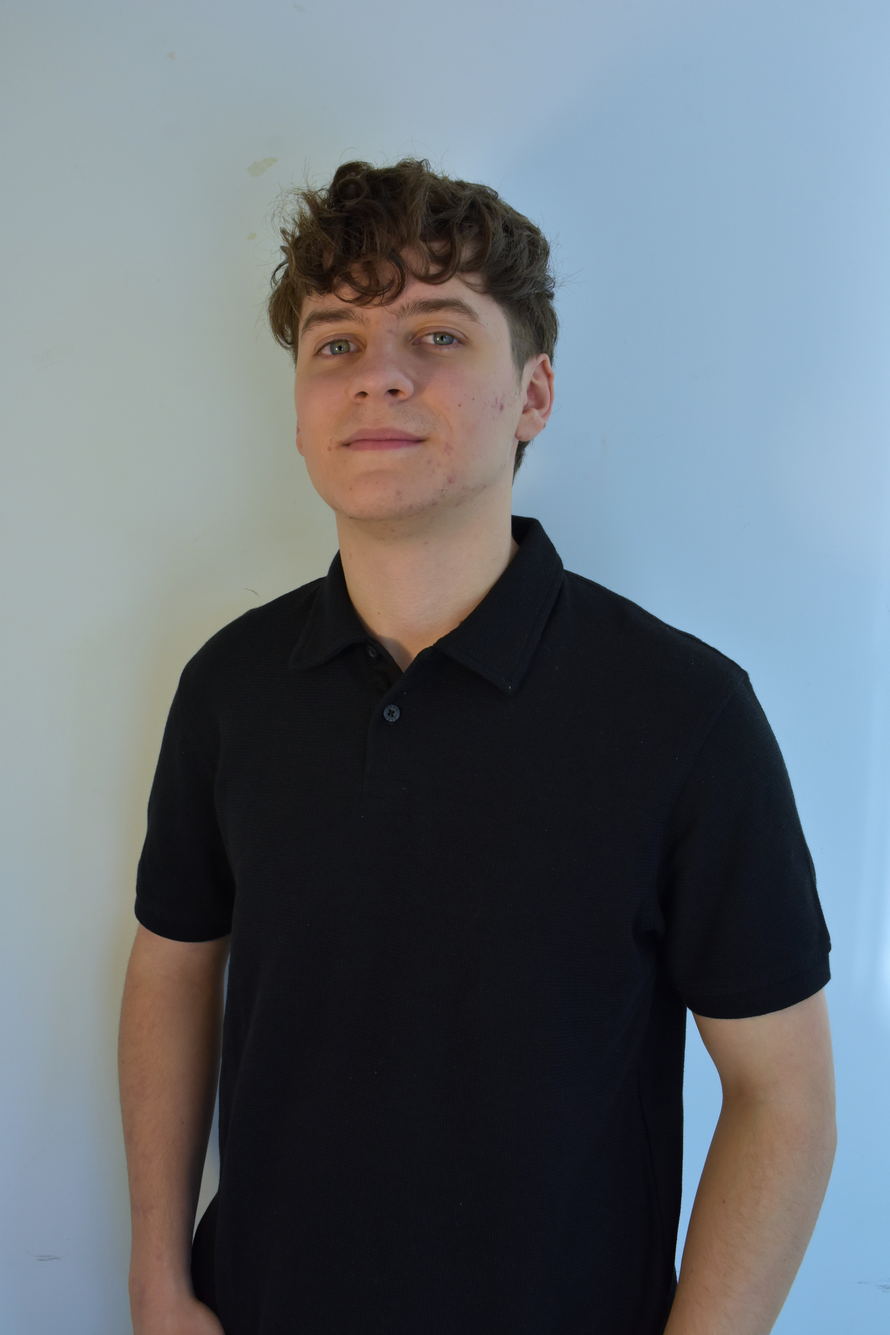
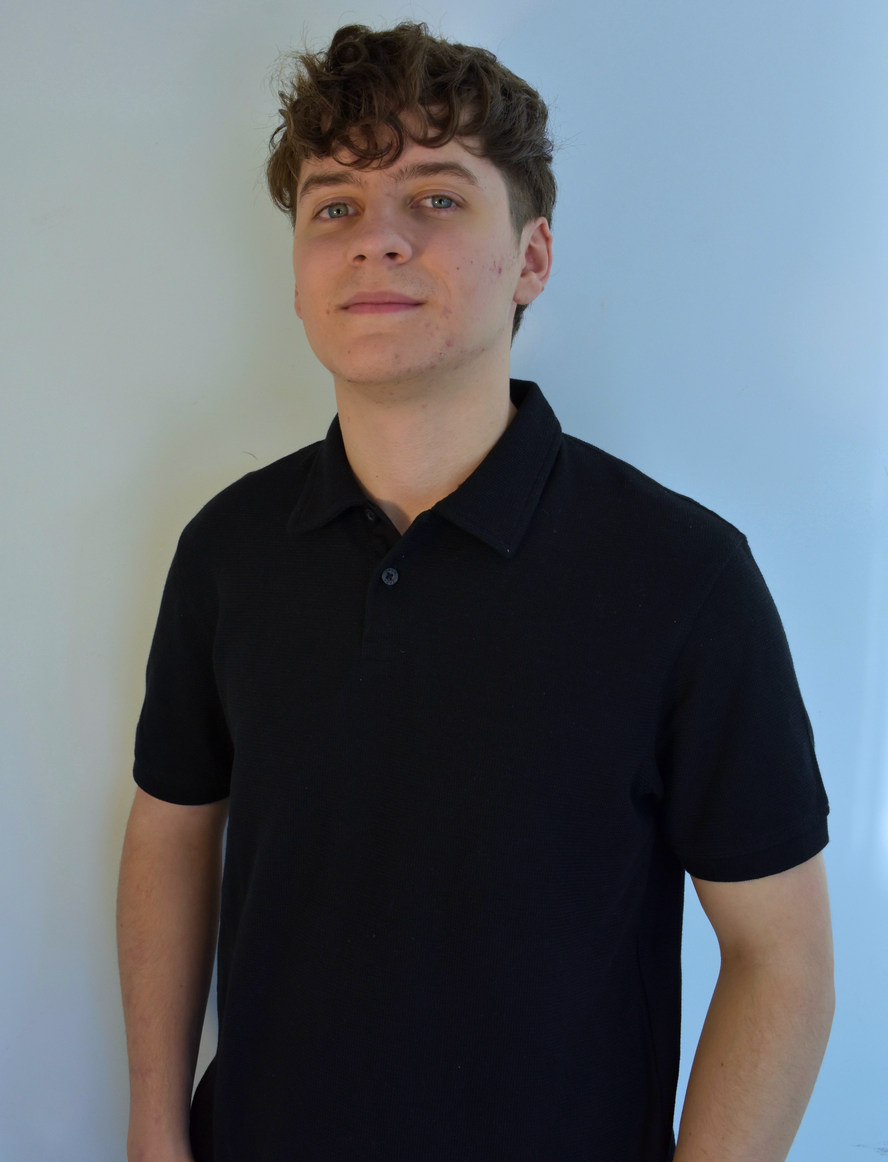
Actualiza Hero + Reel + portfolio

diff --git a/src/app/components/OurTeam.tsx b/src/app/components/OurTeam.tsx
@@ -7,13 +7,13 @@ const teamMembers = [
   {
     name: "Gimena Yurcie",
     role: "Diseñadora Gráfica, Ilustradora",
-    img: "/images/Gimena.png",
+    img: "/images/Gimena 2.jpg",
     description: `Como diseñadora gráfica e ilustradora en “Bastra”, transformo conceptos e ideas en piezas visuales únicas que transmiten identidad y emoción. Desde el diseño de logotipos hasta ilustraciones personalizadas, mi objetivo es que cada proyecto comunique de forma clara y creativa la esencia de tu marca.`,
   },
   {
     name: "Darinka Polich",
     role: "Content Creator, Community Manager",
-    img: "/images/Darinka.JPG",
+    img: "/images/Darinka.jpg",
     description: `En Bastra Studio gestiono redes sociales y creo contenido que conecta. Diseño estrategias, produzco fotos, videos y campañas alineadas con la esencia de la marca. Cada publicación tiene un objetivo claro: atraer, inspirar, vender o fidelizar.`,
   },
   {
@@ -38,7 +38,8 @@ export default function OurTeam() {
           Nuestro Equipo
         </h1>
 
-        <div className="grid grid-cols-1 sm:grid-cols-2 lg:grid-cols-4 gap-10">
+        {/* Grid con separación clara */}
+        <div className="grid grid-cols-1 sm:grid-cols-2 lg:grid-cols-4 gap-24">
           {teamMembers.map((member, index) => (
             <TeamCard key={index} member={member} />
           ))}
@@ -58,7 +59,6 @@ function TeamCard({
     description: string;
   };
 }) {
-  // Estado para mobile/touch: abrir/cerrar con tap
   const [open, setOpen] = useState(false);
 
   const toggle = () => setOpen((v) => !v);
@@ -75,34 +75,36 @@ function TeamCard({
         {member.name}
       </h2>
 
-      {/* Contenedor clickeable en mobile, hover en desktop */}
+      {/* Tarjeta sin borde, separadas entre sí */}
       <div
         role="button"
         tabIndex={0}
         aria-expanded={open}
         onClick={toggle}
         onKeyDown={onKeyDown}
-        className="relative overflow-hidden rounded-lg shadow-lg outline-none focus:ring-2 focus:ring-[#810010]/40"
+        className="relative w-[min(82vw,300px)] sm:w-[min(46vw,300px)] lg:w-[320px] aspect-[3/4] rounded-2xl overflow-hidden shadow-lg outline-none focus:ring-2 focus:ring-[#810010]/40"
       >
         <Image
           src={member.img}
           alt={member.name}
-          width={300}
-          height={450}
-          className={[
-            "rounded-lg object-cover transition-all duration-300",
-            // Efecto en desktop (hover) y en mobile (open)
-            open ? "scale-110 blur-sm" : "scale-100 blur-0",
-            "md:group-hover:scale-110 md:group-hover:blur-sm",
-          ].join(" ")}
+          fill
+          priority
+          quality={100}
+          sizes="(min-width:1280px) 320px, (min-width:768px) 46vw, 82vw"
           draggable={false}
-          priority={false}
+          className={[
+            "object-cover",
+            "object-[50%_18%]",
+            "transition-transform duration-300",
+            open ? "scale-105" : "scale-100",
+            "md:group-hover:scale-105",
+          ].join(" ")}
         />
-
-        {/* Overlay con descripción: visible en hover (md+) o cuando open=true */}
+        {/* Overlay descripción */}
         <div
           className={[
-            "absolute inset-0 bg-[#810100]/80 transition-opacity duration-300 flex items-center justify-center p-4",
+            "absolute inset-0 bg-[#751612]/80 transition-opacity duration-300",
+            "flex items-center justify-center p-4",
             open ? "opacity-100" : "opacity-0",
             "md:opacity-0 md:group-hover:opacity-100",
           ].join(" ")}
@@ -113,9 +115,9 @@ function TeamCard({
         </div>
       </div>
 
-      {/* Roles debajo (con saltos en comas) */}
+      {/* Roles debajo */}
       <p className="mt-3 text-[#810010] font-[PT-Regular] whitespace-pre-line">
-        {member.role.replace(/,\\s*/g, "\n")}
+        {member.role.replace(/,\s*/g, "\n")}
       </p>
     </div>
   );

diff --git a/src/app/components/Hero.tsx b/src/app/components/Hero.tsx
@@ -25,13 +25,12 @@ export default function Hero() {
     const timer = setInterval(() => {
       setTimeLeft(calculateTimeLeft());
     }, 1000);
-
     return () => clearInterval(timer);
   }, []);
 
   if (!timeLeft) {
     return (
-      <main className="min-h-screen flex items-center justify-center bg-[#810100] text-[#edebdd]">
+      <main className="min-h-screen flex items-center justify-center bg-[#751612] text-[#edebdd]">
         <p className="font-[Monotalic] text-4xl md:text-6xl text-center">
           The wait is over!
         </p>
@@ -40,45 +39,30 @@ export default function Hero() {
   }
 
   return (
-    <main className="min-h-screen flex items-center justify-center bg-[#810100] relative overflow-hidden">
-      <CustomCursor />
+    <main className="relative min-h-screen w-full overflow-hidden bg-[#751612]">
+      {/* Fondo por dispositivo */}
+      <img
+        src="/images/Fondo-Hero.jpg"
+        alt="Hero"
+        className="hidden md:block w-full h-full object-cover"
+      />
+      <img
+        src="/images/opción-vertical.jpg"
+        alt="Hero"
+        className="block md:hidden w-full h-full object-cover"
+      />
 
-      {/* Fondo con puntitos cálidos animados */}
-      <div className="absolute inset-0 sparkle-background"></div>
-
-      <div className="relative z-10 text-[#edebdd] px-6 text-center">
-        <h1 className="font-[Zodiak-Regular] text-2xl md:text-4xl mb-6">
-        Todo Bastra <br /> en un solo sitio.
-        </h1>
-
-        <div className="flex justify-center gap-4 md:gap-8 font-[Monotalic]">
-          <div className="flex flex-col items-center">
-            <span className="text-5xl md:text-7xl text-[#edebdd]">{timeLeft.days}</span>
-            <span className="text-sm md:text-lg font-[Zodiak-LightItalic]">Días</span>
-          </div>
-          <div className="flex flex-col items-center">
-            <span className="text-5xl md:text-7xl text-[#edebdd]">{timeLeft.hours}</span>
-            <span className="text-sm md:text-lg font-[Zodiak-LightItalic]">Horas</span>
-          </div>
-          <div className="flex flex-col items-center">
-            <span className="text-5xl md:text-7xl text-[#edebdd]">{timeLeft.minutes}</span>
-            <span className="text-sm md:text-lg font-[Zodiak-LightItalic]">Minutos</span>
-          </div>
-          <div className="flex flex-col items-center">
-            <span className="text-5xl md:text-7xl text-[#edebdd]">{timeLeft.seconds}</span>
-            <span className="text-sm md:text-lg font-[Zodiak-LightItalic]">Segundos</span>
-          </div>
-        </div>
-      </div>
+      {/* Partículas en #751612 */}
+      <div className="pointer-events-none absolute inset-0 sparkle-background" />
 
       <style jsx>{`
-        /* Puntitos/partículas cálidas moviéndose en diagonal */
+        /* Puntitos/partículas moviéndose en diagonal - color #751612 */
         .sparkle-background {
           background-image:
-            radial-gradient(circle at 20% 30%, rgba(237, 235, 221, 0.25) 1.5px, transparent 2px), /* crema */
-            radial-gradient(circle at 70% 60%, rgba(255, 255, 255, 0.18) 1.2px, transparent 2px), /* blanco */
-            radial-gradient(circle at 40% 80%, rgba(129, 1, 0, 0.25) 1.4px, transparent 2px),     /* bordó */
-            radial-gradient(circle at 85% 25%, rgba(242, 181, 68, 0.25) 1.2px, transparent 2px); /* dorado */
+            radial-gradient(circle at 20% 30%, rgb(117 22 18 / 0.42) 1.5px, transparent 2px),
+            radial-gradient(circle at 70% 60%, rgb(117 22 18 / 0.30) 1.2px, transparent 2px),
+            radial-gradient(circle at 40% 80%, rgb(117 22 18 / 0.36) 1.4px, transparent 2px),
+            radial-gradient(circle at 85% 25%, rgb(117 22 18 / 0.26) 1.2px, transparent 2px);
           background-size: 160px 160px, 220px 220px, 200px 200px, 260px 260px;
           animation: drift 16s linear infinite, flicker 6s ease-in-out infinite;
           opacity: 0.6;
